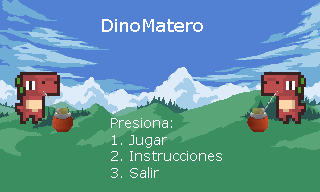
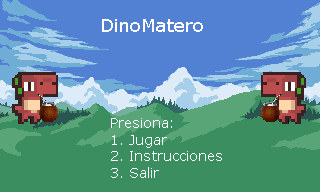
Menu inicio terminado, con imagenes. Mapa nivel 3 arreglado. Se actualizáron las imagenes del dinosaurio

Changed region(s): [[0.0312, 0.375, 0.25, 0.6875], [0.75, 0.4062, 0.9688, 0.6875]]

diff --git a/main.py b/main.py
@@ -41,7 +41,7 @@ class Main:
 
     def crearPantalla(self):
         self.pantalla = pygame.display.set_mode((PANTALLA_ANCHO, PANTALLA_ALTO))
-        pygame.display.set_caption('Jumping')
+        pygame.display.set_caption('DinoMatero')
 
     def crearFps(self):
         self.reloj = pygame.time.Clock()
